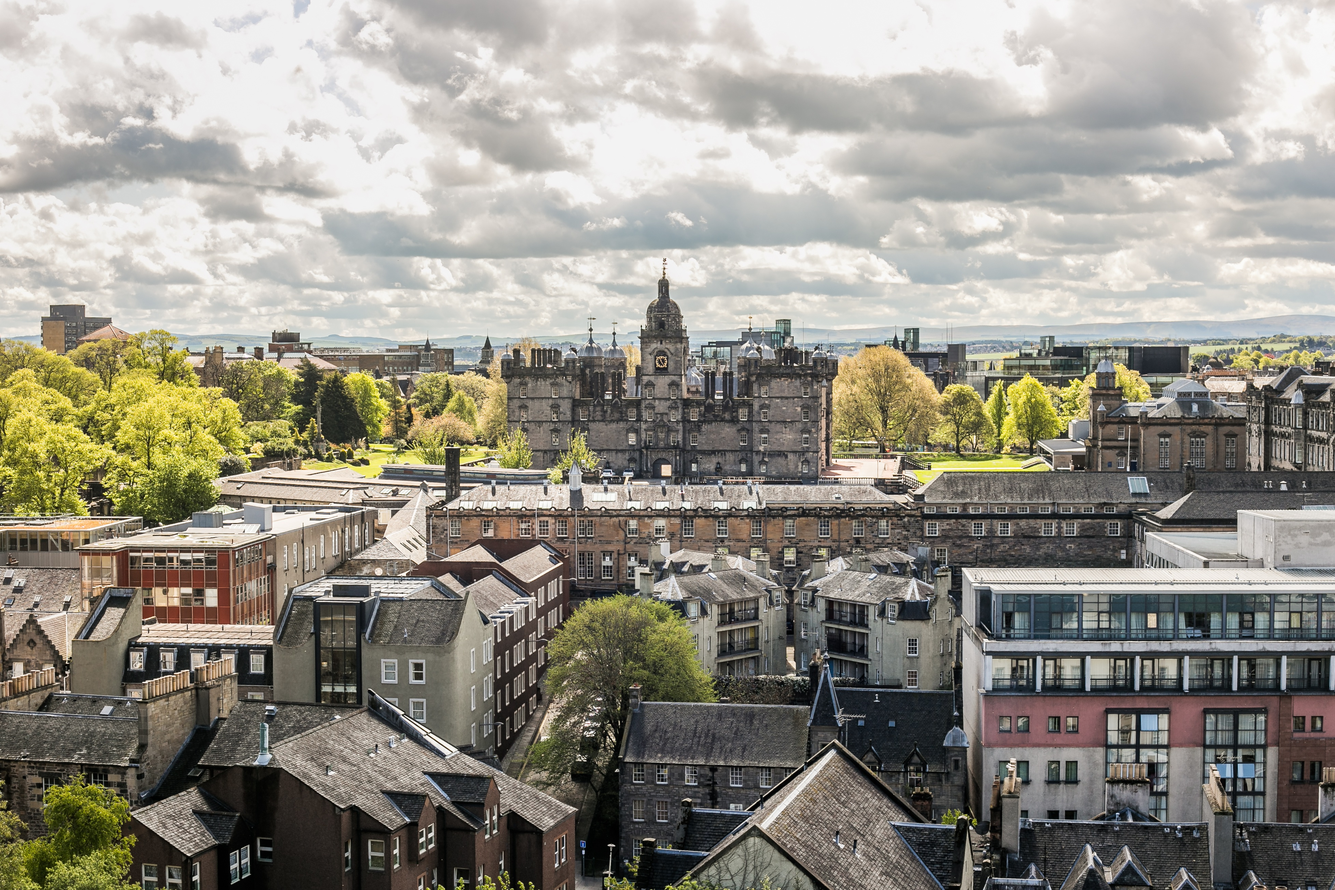
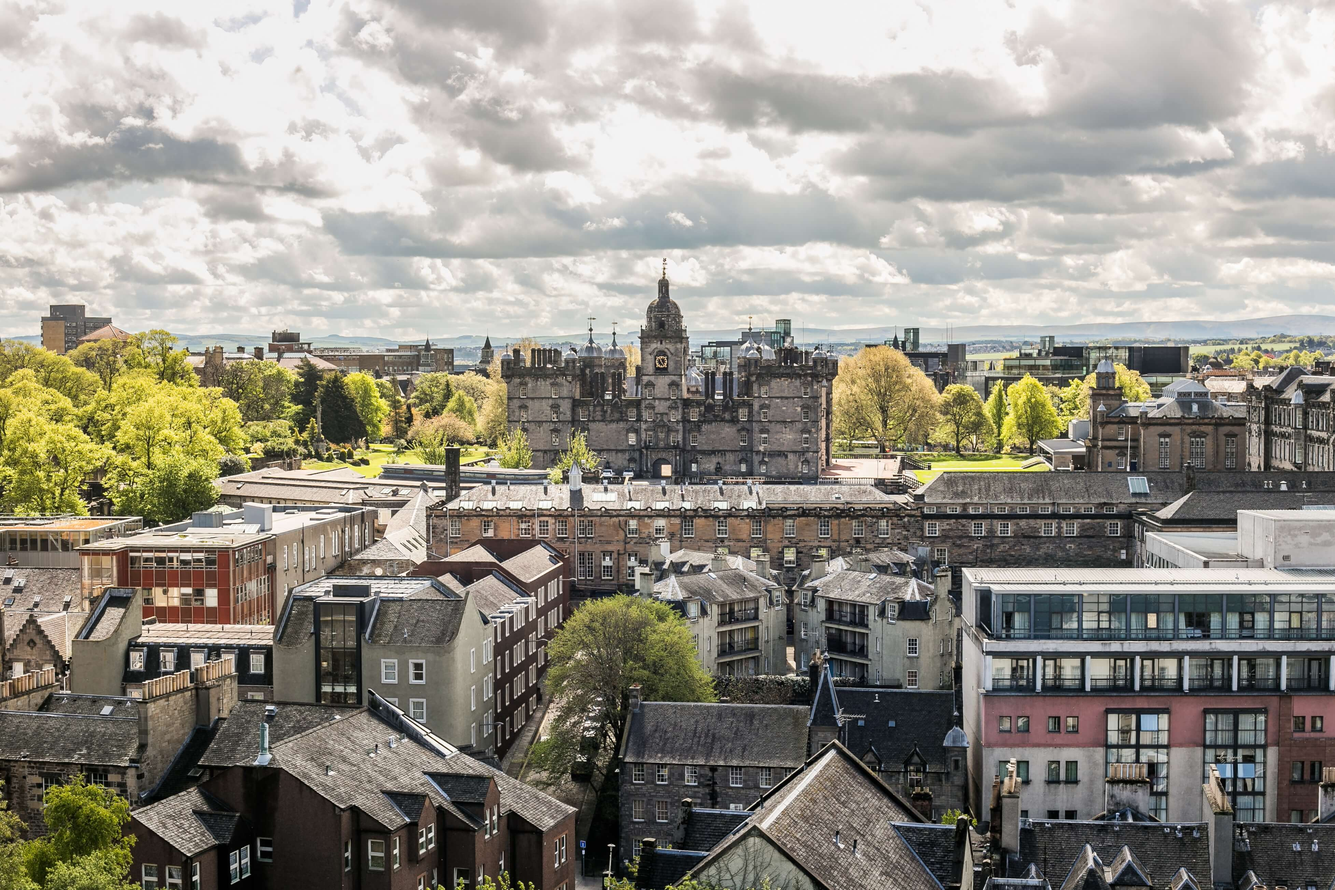
Add Tiny PNG and Compress JPEG and parallax feature to the README.md

Changed region(s): [[0.0, 0.435, 0.156, 0.5593]]

diff --git a/static/css/style.css b/static/css/style.css
@@ -805,6 +805,7 @@ footer .copyright {
     border: 1px solid var(--light-blue);
 }
 
+/* Edit home page for smaller devices */
 @media only screen and (max-width: 500px) {
 
     .home-heading,
@@ -818,5 +819,12 @@ footer .copyright {
         font-weight: 300;
         margin-bottom: 30px;
         border-radius: 5px;
+    }
+}
+
+/* Disable parallax images scrolling for ipads and phones */
+@media only screen and (max-width: 1399px) {
+    .parallax {
+        background-attachment: scroll;
     }
 }

diff --git a/README.md b/README.md
@@ -49,7 +49,7 @@ Below you can see the mock-ups that I drew using
 
 ## **UX**
 ### **User Persona**
-This website project will target users who are interested in viewing and sharing information about property deals. The priority focus is on providing an easy to navigate and responsive website that allows users to be a part of a community with a collection of properties. 
+This website project will target users who are interested in viewing and sharing information about property deals. The priority focus is on providing an easy to navigate and responsive website that allows users to be a part of a community with a collection of properties. Most pages except "View property", "Add property" and "Edit proeprty" use parallax feature to make the site more visually appealing. As these three pages content heavy, parallax feature has been excluded for them. 
 
 ### **User Goals**
 - View featured **properties posts per month** created by the admin;
@@ -59,7 +59,7 @@ This website project will target users who are interested in viewing and sharing
 
 ### **Site Owners Goals**
 - Be the “go-to” place for users to source property deals. 
-- To create a community for users to offer each other their property deals.
+- To create a community for users to source property deals for one another.
 
 ### **User Requirements and Expectations**
 #### **Requirements**
@@ -225,7 +225,6 @@ In the first section the admin is able to add and edit featured properties by cl
 ## Features Left to Implement
 - **Favourites:** Adding filters to only display properties according to amenities, price, types and dates. I thought of this feature once the website was finished and I couldn't spend more time working on the project as I needed to get going with the rest of the course.
 
-- **Arranging properties from the most to the least viewed:**
 ## Technologies Used
 
 #### Database:
@@ -252,6 +251,12 @@ In the first section the admin is able to add and edit featured properties by cl
 
 - **[Werkzeug](https://werkzeug.palletsprojects.com/en/2.0.x/)**
     - A WSGI web application library used for passwords for Python.
+
+- **[Tiny-PNG](https://tinypng.com/)**
+    - I used tinypng for big images up to 5M needed to be compressed to improve the website's loading time.
+
+- **[CompressJPEG](https://compressjpeg.com/)**
+    - The big images bigger than 5M needed to be compressed to improve the website's loading time.
 
 #### Dependencies:
 In order to run the app I had to install the following packages, these packages are listed in the requirements.txt file. Each of these packages had installed additional packages but the additional packages have been removed from the requirements.txt file because they will be automatically installed when installing the main packages on the list:
@@ -431,8 +436,7 @@ You have to create an account with MongoDB. You can see [here](https://docs.atla
 - The copy and text for this website was created by Teema Namdarian 
 
 ### **Media**
-- All Images used are from [Undraw](https://undraw.co/)
-- Background svg image from [Haikei](https://app.haikei.app/)
+- All Images used are from [Pixabay](https://pixabay.com/)
 
 ### **Code**
 - CSS for color roots adapted from [CSS Tricks](https://css-tricks.com/the-shapes-of-css/)
